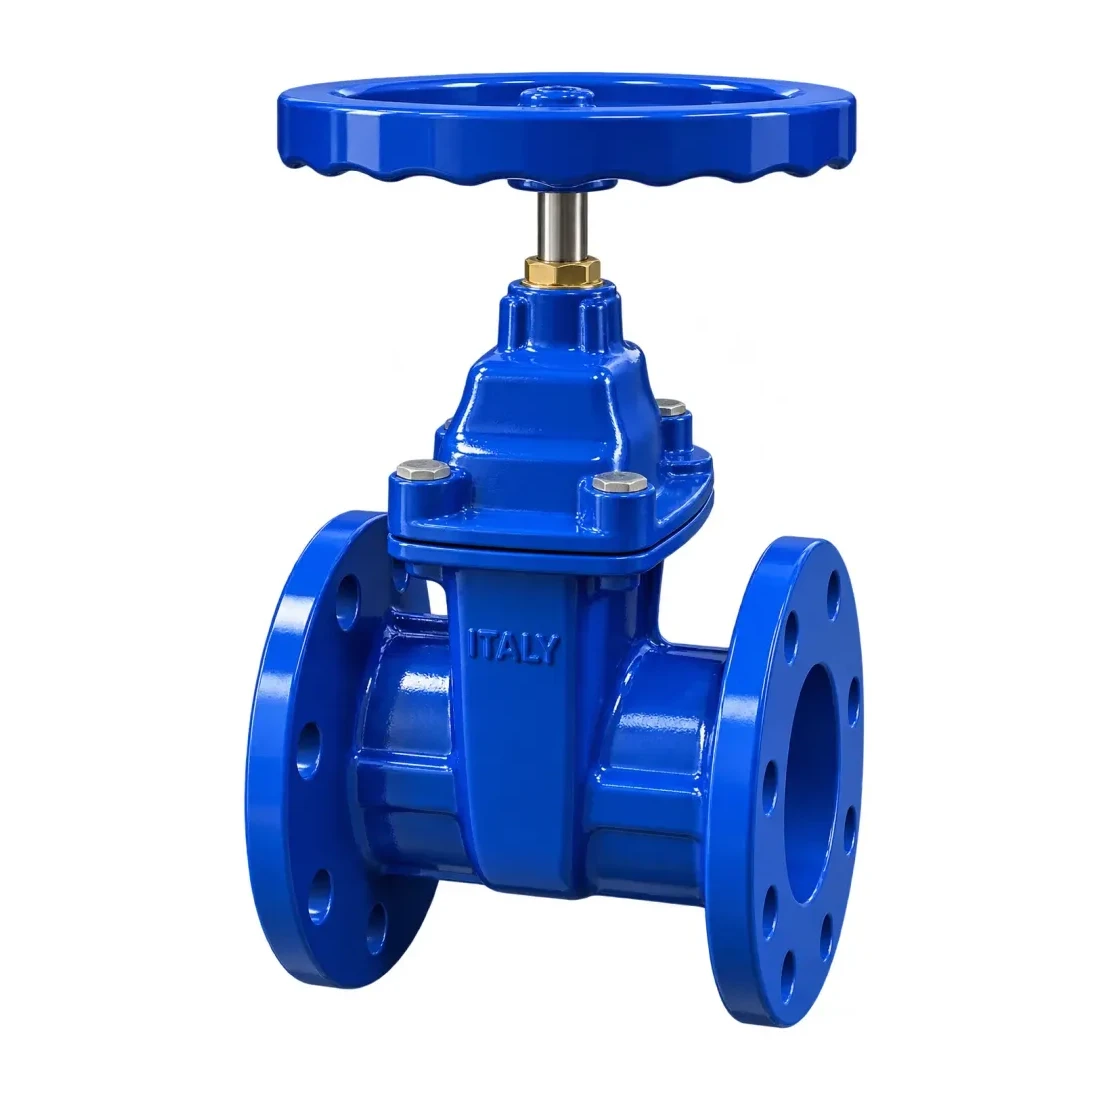
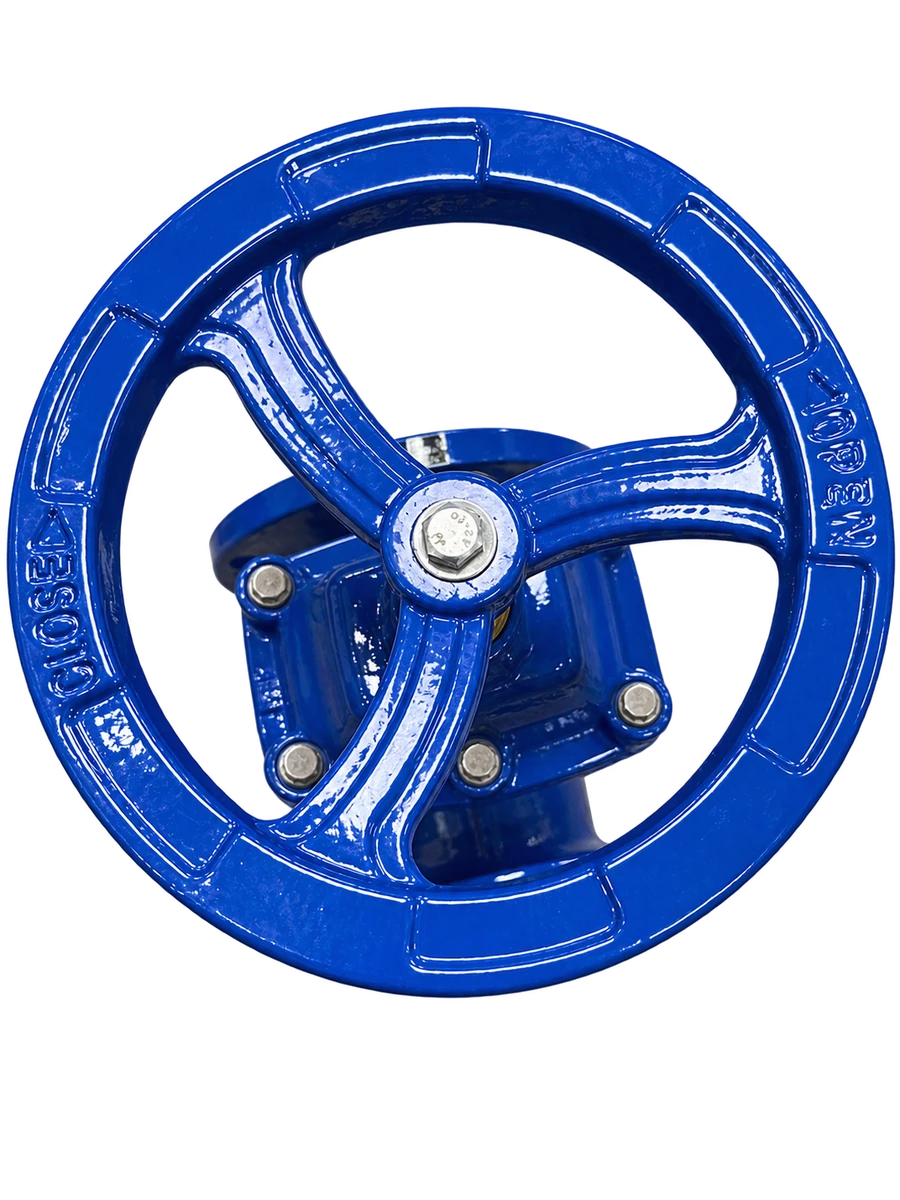
feat(catalog): replace valve imagery with new transparent product photos
Swap the valve-hd set for five new cutout photos and point catalog,
quote, product detail gallery and 3D viewer poster at them.
Remove the unused v-06..v-10 assets.

diff --git a/src/screens/w23.tsx b/src/screens/w23.tsx
@@ -14,7 +14,7 @@ export function ScreenW23() {
 
         <div className="grid items-start gap-5 lg:grid-cols-12">
           <div className="space-y-4 lg:col-span-8">
-            <section aria-label="Visor referencial de producto" className="overflow-hidden rounded-xl border border-border bg-surface shadow-sm"><div className="flex flex-wrap items-center justify-between gap-3 border-b border-border px-4 py-3"><div className="flex items-center gap-2"><span aria-hidden="true" className="size-2 rounded-full bg-warning"/><span className="font-ui-label text-ui-label font-semibold text-on-surface">Visor 3D no disponible</span></div><span className="font-ui-label text-ui-label text-text-muted">Imagen referencial</span></div><div className="relative flex min-h-[340px] items-center justify-center overflow-hidden bg-surface-container-low p-5 sm:min-h-[390px] sm:p-8"><div aria-hidden="true" className="absolute inset-0 opacity-40" style={{backgroundSize:"24px 24px",backgroundImage:"linear-gradient(to right, rgba(0,66,87,.08) 1px, transparent 1px), linear-gradient(to bottom, rgba(0,66,87,.08) 1px, transparent 1px)"}}/><figure className="relative z-10 m-0 flex w-full max-w-[620px] items-center justify-center"><Image src="/images/stitch/2633b42224.jpg" alt="Imagen referencial de una válvula de compuerta; no corresponde a un modelo CAD aprobado." width={1408} height={768} sizes="(min-width: 1024px) 65vw, 100vw" className="max-h-[340px] w-full rounded-lg object-contain sm:max-h-[370px]"/><figcaption className="sr-only">Imagen referencial, sin escala ni dimensiones verificadas.</figcaption></figure><span className="absolute bottom-4 left-4 rounded bg-surface/95 px-3 py-1.5 font-ui-label text-ui-label font-semibold text-on-surface">Vista referencial · sin escala</span></div><div className="flex flex-wrap items-center justify-between gap-3 border-t border-border bg-surface px-4 py-3"><p className="font-ui-label text-ui-label text-text-muted">Los controles aparecerán cuando el modelo tenga aprobación técnica.</p><div className="flex gap-2" aria-label="Controles del visor, actualmente inactivos">{[["rotate_right","Rotar"],["zoom_in","Acercar"],["download","Descargar"]].map(([icon,label])=><button key={icon} type="button" disabled aria-label={`${label}: no disponible`} className="flex size-9 items-center justify-center rounded-lg border border-border bg-surface-container-low text-text-muted disabled:cursor-not-allowed"><span aria-hidden="true" className="material-symbols-outlined text-[18px]">{icon}</span></button>)}</div></div><div className="grid grid-cols-3 gap-px border-t border-border bg-border">{["Vista", "Corte", "Wireframe"].map((label)=><button key={label} type="button" disabled className="min-h-10 bg-surface px-2 font-ui-label text-ui-label text-text-muted disabled:cursor-not-allowed">{label}</button>)}</div></section>
+            <section aria-label="Visor referencial de producto" className="overflow-hidden rounded-xl border border-border bg-surface shadow-sm"><div className="flex flex-wrap items-center justify-between gap-3 border-b border-border px-4 py-3"><div className="flex items-center gap-2"><span aria-hidden="true" className="size-2 rounded-full bg-warning"/><span className="font-ui-label text-ui-label font-semibold text-on-surface">Visor 3D no disponible</span></div><span className="font-ui-label text-ui-label text-text-muted">Imagen referencial</span></div><div className="relative flex min-h-[340px] items-center justify-center overflow-hidden bg-surface-container-low p-5 sm:min-h-[390px] sm:p-8"><div aria-hidden="true" className="absolute inset-0 opacity-40" style={{backgroundSize:"24px 24px",backgroundImage:"linear-gradient(to right, rgba(0,66,87,.08) 1px, transparent 1px), linear-gradient(to bottom, rgba(0,66,87,.08) 1px, transparent 1px)"}}/><figure className="relative z-10 m-0 flex w-full max-w-[620px] items-center justify-center"><Image src="/media/valvula-hd/v-01.webp" alt="Imagen referencial de una válvula de compuerta; no corresponde a un modelo CAD aprobado." width={900} height={1200} sizes="(min-width: 1024px) 65vw, 100vw" className="max-h-[340px] w-full rounded-lg object-contain sm:max-h-[370px]"/><figcaption className="sr-only">Imagen referencial, sin escala ni dimensiones verificadas.</figcaption></figure><span className="absolute bottom-4 left-4 rounded bg-surface/95 px-3 py-1.5 font-ui-label text-ui-label font-semibold text-on-surface">Vista referencial · sin escala</span></div><div className="flex flex-wrap items-center justify-between gap-3 border-t border-border bg-surface px-4 py-3"><p className="font-ui-label text-ui-label text-text-muted">Los controles aparecerán cuando el modelo tenga aprobación técnica.</p><div className="flex gap-2" aria-label="Controles del visor, actualmente inactivos">{[["rotate_right","Rotar"],["zoom_in","Acercar"],["download","Descargar"]].map(([icon,label])=><button key={icon} type="button" disabled aria-label={`${label}: no disponible`} className="flex size-9 items-center justify-center rounded-lg border border-border bg-surface-container-low text-text-muted disabled:cursor-not-allowed"><span aria-hidden="true" className="material-symbols-outlined text-[18px]">{icon}</span></button>)}</div></div><div className="grid grid-cols-3 gap-px border-t border-border bg-border">{["Vista", "Corte", "Wireframe"].map((label)=><button key={label} type="button" disabled className="min-h-10 bg-surface px-2 font-ui-label text-ui-label text-text-muted disabled:cursor-not-allowed">{label}</button>)}</div></section>
             <div className="grid gap-3 sm:grid-cols-3">{[["straighten","Distancia entre caras"],["fitness_center","Masa total"],["speed","Presión de trabajo"]].map(([icon,label])=><article key={label} className="rounded-xl border border-border bg-surface p-4 shadow-sm"><span aria-hidden="true" className="material-symbols-outlined text-[20px] text-primary">{icon}</span><p className="mt-2 font-ui-label text-ui-label text-text-muted">{label}</p><p className="mt-1 font-headline-card text-headline-card font-semibold text-on-surface">Pendiente</p><p className="mt-1 font-ui-label text-ui-label text-text-muted">Dato por validar</p></article>)}</div>
           </div>
 

diff --git a/src/modules/catalog/data.ts b/src/modules/catalog/data.ts
@@ -98,8 +98,8 @@ export const CATALOG_PRODUCTS: readonly CatalogProduct[] = [
     summary: "Cuerpo corto en hierro dúctil GGG-50, vástago no ascendente en acero inoxidable AISI 420 y cuña vulcanizada en EPDM sanitario.",
     standards: ["EN 1171", "EN 1074", "NTP ISO 7259", "DIN 3202 F4"], dn: [50, 300], pn: [16, 25], joint: "bridada-f4",
     homologation: ["sedapal", "otass"], material: "GGG-50 (EN-GJS-500)",
-    image: "/images/stitch/682437c77e.jpg", imageAlt: "Válvula de compuerta bridada de hierro dúctil con recubrimiento epóxico azul",
-    resultImage: "/images/stitch/7873b1b0bb.jpg", href: `${V}/valvula-compuerta`, quoteSlug: "valvula-compuerta",
+    image: "/media/valvula-hd/v-01.webp", imageAlt: "Válvula de compuerta bridada de hierro dúctil con recubrimiento epóxico azul",
+    resultImage: "/media/valvula-hd/v-01.webp", href: `${V}/valvula-compuerta`, quoteSlug: "valvula-compuerta",
     kicker: "Corte y Aislamiento", badges: ["EN 1171", "EN 1074"],
     specs: [["Rango de Diámetros", "DN 50 – DN 300"], ["Presión Nominal", "PN 16 / PN 25"], ["Material Cuerpo", "GGG-50 (EN-GJS-500)"], ["Recubrimiento", "Epoxi 250 µm RAL 5005"]],
     result: { tag: "SERIE F4 ISO", tagClass: "bg-primary text-brand-on", chip: "Stock Lurín", chipDot: true, chipClass: "bg-surface-container text-success", norm: "NTP ISO 7259", title: "Válvula Compuerta Bridada Serie F4 PN 16", summary: "Cuerpo corto en hierro dúctil GGG-50, vástago no ascendente en acero inoxidable AISI 420 y cuña vulcanizada en EPDM sanitario.", dn: 'DN 50 a DN 300 (2" - 12")', pn: "PN 16 (16 Bar / 232 PSI)", hm: { text: "SEDAPAL / OTASS", icon: "check_circle", className: hmOk } },
@@ -111,7 +111,7 @@ export const CATALOG_PRODUCTS: readonly CatalogProduct[] = [
     summary: "Longitud entre caras ampliada para reposición en matrices primarias. Doble retén O-Ring y cuña con guía autolubricada.",
     standards: ["DIN 3202 F5", "EN 1171"], dn: [50, 600], pn: [16, 25], joint: "bridada-f5",
     homologation: ["sedapal"], material: "Hierro dúctil GGG-50",
-    image: "/images/stitch/26332aa838.jpg", imageAlt: "Válvula de compuerta bridada de serie larga F5",
+    image: "/media/valvula-hd/v-02.webp", imageAlt: "Válvula de compuerta bridada de serie larga F5",
     href: `${V}/valvula-compuerta`, quoteSlug: "valvula-compuerta",
     kicker: "Corte y Aislamiento", badges: ["DIN 3202 F5", "EN 1171"],
     specs: [["Rango de Diámetros", "DN 50 – DN 600"], ["Presión Nominal", "PN 16 / PN 25"], ["Longitud entre caras", "Serie F5 larga"], ["Sellado de vástago", "Doble retén O-Ring"]],
@@ -124,7 +124,7 @@ export const CATALOG_PRODUCTS: readonly CatalogProduct[] = [
     summary: "Diseño estanco sin ranura inferior de retención de sedimentos. Paso integral 100% libre de pérdidas de carga hidráulica.",
     standards: ["EN 1074-2"], dn: [80, 200], pn: [16], joint: "bridada-f4",
     homologation: ["sedapal", "otass"], material: "Hierro dúctil",
-    image: "/images/stitch/a0bce053e2.jpg", imageAlt: "Válvula de compuerta de asiento elástico con bonete roscado",
+    image: "/media/valvula-hd/v-03.webp", imageAlt: "Válvula de compuerta de asiento elástico con bonete roscado",
     href: V,
     kicker: "Corte y Aislamiento", badges: ["EN 1074-2", "PN 16"],
     specs: [["Rango de Diámetros", "DN 80 – DN 200"], ["Presión Nominal", "PN 16"], ["Diseño", "Estanco sin ranura inferior"], ["Bonete", "Roscado"]],
@@ -137,7 +137,7 @@ export const CATALOG_PRODUCTS: readonly CatalogProduct[] = [
     summary: "Especializada para cajas de medidor en vereda y arranques domiciliares. Cuerpo compacto de alta resistencia al aplastamiento vehicular.",
     standards: ["ISO 7/1 BSP"], dn: [25, 50], pn: [16], joint: "roscada",
     homologation: ["sedapal", "otass"], material: "Hierro dúctil",
-    image: "/images/stitch/831c7d829e.jpg", imageAlt: "Válvula de compuerta roscada para acometida domiciliaria",
+    image: "/media/valvula-hd/v-04.webp", imageAlt: "Válvula de compuerta roscada para acometida domiciliaria",
     href: V,
     kicker: "Acometidas", badges: ["ISO 7/1 BSP", "PN 16"],
     specs: [["Rango de Diámetros", "DN 25 – DN 50"], ["Presión Nominal", "PN 16"], ["Conexión", "Roscada ISO 7/1 BSP"], ["Aplicación", "Acometida domiciliaria"]],
@@ -150,7 +150,7 @@ export const CATALOG_PRODUCTS: readonly CatalogProduct[] = [
     summary: "Pala de corte en acero inoxidable AISI 304/316 para fluidos con sólidos en suspensión, pulpas mineras, relaves y aguas residuales.",
     standards: ["MSS SP-81"], dn: [100, 500], pn: [10, 16], joint: "ranurada",
     homologation: [], material: "Hierro dúctil / pala AISI 304-316",
-    image: "/images/stitch/a569f32617.jpg", imageAlt: "Válvula de compuerta tipo cuchilla guillotina para minería y lodos",
+    image: "/media/valvula-hd/v-05.webp", imageAlt: "Válvula de compuerta tipo cuchilla guillotina para minería y lodos",
     href: V,
     kicker: "Minería y Lodos", badges: ["MSS SP-81", "PN 10 / PN 16"],
     specs: [["Rango de Diámetros", "DN 100 – DN 500"], ["Presión Nominal", "PN 10 / PN 16"], ["Pala de corte", "Acero inox AISI 304/316"], ["Aplicación", "Pulpas, relaves y lodos"]],
@@ -163,7 +163,7 @@ export const CATALOG_PRODUCTS: readonly CatalogProduct[] = [
     summary: "Para enterramiento directo sin cámara de válvulas. Vástago telescópico regulable (1.20m a 2.50m) y dado de accionamiento superficial.",
     standards: ["NTP 350.085"], dn: [80, 400], pn: [16], joint: "bridada-f4",
     homologation: ["sedapal"], material: "Hierro dúctil",
-    image: "/images/stitch/5d3998f978.jpg", imageAlt: "Válvula de compuerta con extensión telescópica para enterramiento directo",
+    image: "/media/valvula-hd/v-01.webp", imageAlt: "Válvula de compuerta con extensión telescópica para enterramiento directo",
     href: V,
     kicker: "Enterramiento", badges: ["NTP 350.085", "PN 16"],
     specs: [["Rango de Diámetros", "DN 80 – DN 400"], ["Presión Nominal", "PN 16"], ["Extensión", "Telescópica 1.20 a 2.50 m"], ["Instalación", "Enterramiento directo"]],

diff --git a/src/screens/islands/w03-valvulas.tsx b/src/screens/islands/w03-valvulas.tsx
@@ -12,7 +12,7 @@ type Group = "todas" | GroupId;
 type SortMode = "destacados" | "az" | "za";
 
 const GROUPS: readonly { id: GroupId; label: string; image: string }[] = [
-  { id: "compuerta", label: "Compuerta", image: "/media/valvula-hd/v-03.webp" },
+  { id: "compuerta", label: "Compuerta", image: "/media/valvula-hd/v-01.webp" },
   { id: "mariposa", label: "Mariposa", image: "/media/valvulas-page/mariposa.webp" },
   { id: "reduccion", label: "Reducción", image: "/media/valvulas-page/valvula-reductora.webp" },
   { id: "aire", label: "Aire", image: "/media/valvulas-page/valvula-aire.webp" },
@@ -20,7 +20,7 @@ const GROUPS: readonly { id: GroupId; label: string; image: string }[] = [
 ];
 
 const VALVES: readonly { id: string; group: GroupId; name: string; description: string; image: string; href: string }[] = [
-  { id: "compuerta", group: "compuerta", name: "Válvula de compuerta bridada", description: "Cierre elástico con extremos bridados, paso completo y baja pérdida de carga para redes de agua.", image: "/media/valvula-hd/v-03.webp", href: "/productos/valvulas/valvula-compuerta" },
+  { id: "compuerta", group: "compuerta", name: "Válvula de compuerta bridada", description: "Cierre elástico con extremos bridados, paso completo y baja pérdida de carga para redes de agua.", image: "/media/valvula-hd/v-01.webp", href: "/productos/valvulas/valvula-compuerta" },
   { id: "mariposa", group: "mariposa", name: "Válvula mariposa", description: "Diseño compacto y de bajo torque para grandes diámetros, ideal para regular o cerrar el flujo.", image: "/media/valvulas-page/mariposa.webp", href: "/productos/valvulas/valvula-mariposa" },
   { id: "check-swing", group: "control", name: "Válvula check swing", description: "Evita el retorno de flujo en sistemas de conducción y protege bombas y tuberías de inversiones de caudal.", image: "/media/valvulas-page/check-swing.webp", href: "/contacto" },
   { id: "check-flex", group: "control", name: "Válvula check flex", description: "Solución confiable para redes de agua y alcantarillado, que impide el retorno del flujo y protege el sistema.", image: "/media/valvulas-page/check-flex.webp", href: "/contacto" },
@@ -72,7 +72,7 @@ export function W03Valvulas() {
         <div className={styles.contentWidth}>
           <div className={styles.tabs} role="tablist" aria-label="Tipos de válvula">
             <button type="button" role="tab" aria-selected={group === "todas"} className={group === "todas" ? styles.tabActive : styles.tab} onClick={() => setGroup("todas")}>
-              <span className={styles.tabThumb}><Image src="/media/valvula-hd/v-03.webp" alt="" width={56} height={56} /></span>
+              <span className={styles.tabThumb}><Image src="/media/valvula-hd/v-01.webp" alt="" width={56} height={56} /></span>
               <span className={styles.tabText}><strong>Todas</strong><small>las válvulas</small></span>
             </button>
             {GROUPS.map((entry) => {

diff --git a/src/screens/islands/w06-gallery.tsx b/src/screens/islands/w06-gallery.tsx
@@ -6,16 +6,16 @@ import { useState } from "react";
 type View = { src: string; label: string; alt: string };
 
 const MAIN: View = {
-  src: "/images/stitch/e040dd773f.jpg",
+  src: "/media/valvula-hd/v-01.webp",
   label: "Imagen referencial",
   alt: "Imagen referencial de una válvula industrial.",
 };
 
 const VIEWS: readonly View[] = [
-  { src: "/images/stitch/a3ab792d88.jpg", label: "Vista referencial 1", alt: "Vista referencial de una válvula industrial." },
-  { src: "/images/stitch/622f180f9a.jpg", label: "Vista referencial 2", alt: "Vista referencial de una válvula industrial." },
-  { src: "/images/stitch/8f911a83cf.jpg", label: "Vista referencial 3", alt: "Vista referencial de una válvula industrial." },
-  { src: "/images/stitch/67191e3db2.jpg", label: "Vista referencial 4", alt: "Vista referencial de una válvula industrial." },
+  { src: "/media/valvula-hd/v-02.webp", label: "Vista referencial 1", alt: "Vista referencial de una válvula industrial." },
+  { src: "/media/valvula-hd/v-03.webp", label: "Vista referencial 2", alt: "Vista referencial de una válvula industrial." },
+  { src: "/media/valvula-hd/v-04.webp", label: "Vista referencial 3", alt: "Vista referencial de una válvula industrial." },
+  { src: "/media/valvula-hd/v-05.webp", label: "Vista referencial 4", alt: "Vista referencial de una válvula industrial." },
 ];
 
 const MAIN_SIZES = "(min-width: 1024px) 600px, 100vw";
@@ -35,8 +35,8 @@ export function W06Gallery() {
           key={view.src}
           src={view.src}
           alt={view.alt}
-          width={1408}
-          height={768}
+          width={900}
+          height={1200}
           sizes={MAIN_SIZES}
           priority
           className="w-full h-full object-contain mix-blend-multiply"

diff --git a/src/screens/islands/w06-ficha.tsx b/src/screens/islands/w06-ficha.tsx
@@ -43,16 +43,11 @@ const Viewer3D = dynamic(() => import("@/components/product-3d-viewer"), {
 
 const REAL = "/media/valvula-hd/";
 const THUMBS = [
-  { dir: REAL, src: "v-03.webp", alt: "Válvula de compuerta bridada, vista 3/4 lateral" },
-  { dir: REAL, src: "v-01.webp", alt: "Válvula de compuerta bridada, vista frontal del cuerpo" },
-  { dir: REAL, src: "v-02.webp", alt: "Válvula de compuerta bridada, marcado DN100 PN16 en el cuerpo" },
-  { dir: REAL, src: "v-04.webp", alt: "Válvula de compuerta bridada, vista 3/4 con brida frontal" },
-  { dir: REAL, src: "v-05.webp", alt: "Válvula de compuerta bridada, vista 3/4 desde la derecha" },
-  { dir: REAL, src: "v-06.webp", alt: "Válvula de compuerta bridada, vista 3/4 desde arriba" },
-  { dir: REAL, src: "v-07.webp", alt: "Válvula de compuerta bridada, vista 3/4 con volante" },
-  { dir: REAL, src: "v-08.webp", alt: "Válvula de compuerta bridada, vista frontal de la brida" },
-  { dir: REAL, src: "v-09.webp", alt: "Volante visto desde arriba, sentido de giro" },
-  { dir: REAL, src: "v-10.webp", alt: "Volante visto desde arriba, abrir y cerrar" },
+  { dir: REAL, src: "v-01.webp", alt: "Válvula de compuerta bridada, vista frontal" },
+  { dir: REAL, src: "v-02.webp", alt: "Válvula de compuerta bridada DN100 PN16, vista frontal con volante y marcado en el cuerpo" },
+  { dir: REAL, src: "v-03.webp", alt: "Vista superior del volante azul con indicación CLOSE y OPEN" },
+  { dir: REAL, src: "v-04.webp", alt: "Válvula de compuerta bridada, vista en perspectiva con etiqueta DN100 en la brida" },
+  { dir: REAL, src: "v-05.webp", alt: "Válvula de compuerta bridada, vista frontal de la brida con etiqueta DN100" },
 ];
 
 const RELATED = [

diff --git a/src/screens/islands/w02-catalog.tsx b/src/screens/islands/w02-catalog.tsx
@@ -30,7 +30,7 @@ type FeaturedProduct = {
 };
 
 const FEATURED_PRODUCTS: readonly FeaturedProduct[] = [
-  { id: "compuerta", family: "valvulas", name: "Válvula de compuerta bridada", descriptor: "DN 40 – DN 600  |  PN 10/16", image: "/media/productos-page/featured-compuerta.jpg", alt: "Válvula de compuerta azul", href: "/productos/valvulas/valvula-compuerta", terms: "válvula compuerta cierre agua hierro dúctil" },
+  { id: "compuerta", family: "valvulas", name: "Válvula de compuerta bridada", descriptor: "DN 40 – DN 600  |  PN 10/16", image: "/media/valvula-hd/v-01.webp", alt: "Válvula de compuerta azul", href: "/productos/valvulas/valvula-compuerta", terms: "válvula compuerta cierre agua hierro dúctil" },
   { id: "mariposa", family: "valvulas", name: "Válvula mariposa", descriptor: "DN 50 – DN 1200  |  PN 10/16", image: "/media/productos-page/featured-mariposa.jpg", alt: "Válvula mariposa azul con accionamiento manual", href: "/productos/valvulas/valvula-mariposa", terms: "válvula mariposa palanca control" },
   { id: "hdpe-pipe", family: "tuberias", name: "Tubería HDPE PE100", descriptor: "DN 20 – DN 1200", image: "/media/productos-page/featured-tuberia.jpg", alt: "Tuberías HDPE negras con franja azul", href: "/productos/tuberias", terms: "tubería hdpe pe100 pead conducción" },
   { id: "tapa-d400", family: "marcos-y-tapas", name: "Tapa circular", descriptor: "Clase B125 – D400", image: "/media/productos-page/featured-tapa.jpg", alt: "Tapa circular de hierro dúctil", href: "/productos/marcos-y-tapas/marco-tapa-d400", terms: "tapa circular marco calzada hierro dúctil" },

diff --git a/src/screens/w22.tsx b/src/screens/w22.tsx
@@ -2,13 +2,13 @@ import Image from "next/image";
 import Link from "next/link";
 
 const families = [
-  { label: "Válvulas", href: "/productos/valvulas", image: "/images/stitch/9647c88ae7.jpg", alt: "Imagen referencial de válvula", terms: ["valvula", "valvulas", "compuerta", "mariposa"] },
+  { label: "Válvulas", href: "/productos/valvulas", image: "/media/valvula-hd/v-01.webp", alt: "Imagen referencial de válvula", terms: ["valvula", "valvulas", "compuerta", "mariposa"] },
   { label: "Tuberías", href: "/productos/tuberias", image: "/images/stitch/b018bc2b92.jpg", alt: "Imagen referencial de tubería", terms: ["tuberia", "tuberias", "tubo", "tubos", "cano", "canos"] },
   { label: "Marcos y tapas", href: "/productos/marcos-y-tapas", image: "/images/stitch/245160faac.jpg", alt: "Imagen referencial de marco y tapa", terms: ["marco", "marcos", "tapa", "tapas", "buzon", "buzones"] },
 ] as const;
 const valveReferences = [
-  "/images/stitch/7873b1b0bb.jpg", "/images/stitch/26332aa838.jpg", "/images/stitch/a0bce053e2.jpg",
-  "/images/stitch/831c7d829e.jpg", "/images/stitch/a569f32617.jpg", "/images/stitch/5d3998f978.jpg",
+  "/media/valvula-hd/v-01.webp", "/media/valvula-hd/v-02.webp", "/media/valvula-hd/v-03.webp",
+  "/media/valvula-hd/v-04.webp", "/media/valvula-hd/v-05.webp",
 ];
 function normalize(value: string) { return value.normalize("NFD").replace(/[\u0300-\u036f]/g, "").toLocaleLowerCase("es-PE").trim(); }
 

diff --git a/src/screens/w01.tsx b/src/screens/w01.tsx
@@ -251,7 +251,7 @@ export function ScreenW01() {
               <div className="bg-surface-container-lowest rounded-xl p-4 shadow-sm flex flex-col justify-between">
                 <div>
                   <div className="relative aspect-[4/3] rounded-lg overflow-hidden bg-surface mb-4">
-                    <Image src="/images/stitch/24121a8d22.jpg" alt="Imagen referencial Stitch de una válvula de compuerta" width={1408} height={768} sizes="(min-width: 1024px) 25vw, (min-width: 640px) 50vw, 100vw" className="w-full h-full object-cover" />
+                    <Image src="/media/valvula-hd/v-01.webp" alt="Imagen referencial de una válvula de compuerta" width={900} height={1200} sizes="(min-width: 1024px) 25vw, (min-width: 640px) 50vw, 100vw" className="w-full h-full object-contain p-6" />
                     <span className="absolute bottom-3 left-3 rounded bg-surface-container-lowest/95 px-2 py-1 font-ui-label text-ui-label text-on-surface">Imagen referencial</span>
                   </div>
                   <div className="flex items-center justify-between mb-1">

diff --git a/src/modules/quote/products.ts b/src/modules/quote/products.ts
@@ -45,7 +45,7 @@ export const QUOTE_PRODUCTS: Record<QuoteProductSlug, QuoteProduct> = {
     category: { name: "Válvulas de Hierro Dúctil", href: "/productos/valvulas" },
     productHref: "/productos/valvulas/valvula-compuerta",
     badge: "Homologado SEDAPAL / OTASS",
-    image: { src: "/images/stitch/9647c88ae7.jpg", alt: "Válvula de compuerta de hierro dúctil DN 150 PN 16 con recubrimiento epóxico azul y volante" },
+    image: { src: "/media/valvula-hd/v-01.webp", alt: "Válvula de compuerta de hierro dúctil DN 150 PN 16 con recubrimiento epóxico azul y volante" },
     material: "Hierro Dúctil GGG-50 / EN-GJS-500-7",
     title: "Válvula de Compuerta Bridada con Asiento Elástico F4 PN 16",
     summary: "Cierre estanco bidireccional mediante cuña vulcanizada y paso recto total sin retención de sedimentos.",

diff --git a/src/screens/islands/w23-viewer.tsx b/src/screens/islands/w23-viewer.tsx
@@ -374,10 +374,10 @@ export function W23Viewport() {
           style={transform ? { transform } : undefined}
         >
           <Image
-            src="/images/stitch/2633b42224.jpg"
+            src="/media/valvula-hd/v-01.webp"
             alt="Render ilustrativo de una válvula de compuerta bridada de hierro dúctil con volante y recubrimiento epoxi azul RAL 5005"
-            width={1408}
-            height={768}
+            width={900}
+            height={1200}
             sizes="500px"
             priority
             className="w-full h-full object-contain filter drop-shadow-md transition-all duration-500 motion-reduce:transition-none select-none pointer-events-none"

diff --git a/src/screens/islands/w03-valvulas.module.css b/src/screens/islands/w03-valvulas.module.css
@@ -328,15 +328,15 @@
 .cardImage {
   position: relative;
   display: block;
-  aspect-ratio: 1.26 / 1;
+  aspect-ratio: 1.14 / 1;
   overflow: hidden;
   background: #f1f1ef;
 }
 
 .cardImage img {
   object-fit: contain;
-  padding: 6px;
-  mix-blend-mode: multiply;
+  padding: 12px 20px;
+  mix-blend-mode: normal;
   transition: transform .5s ease;
 }
 
@@ -723,7 +723,7 @@
 
 @media (max-width: 760px) {
   .cardImage {
-    aspect-ratio: 1.5 / 1;
+    aspect-ratio: 1.2 / 1;
   }
 
   .cardBody {
